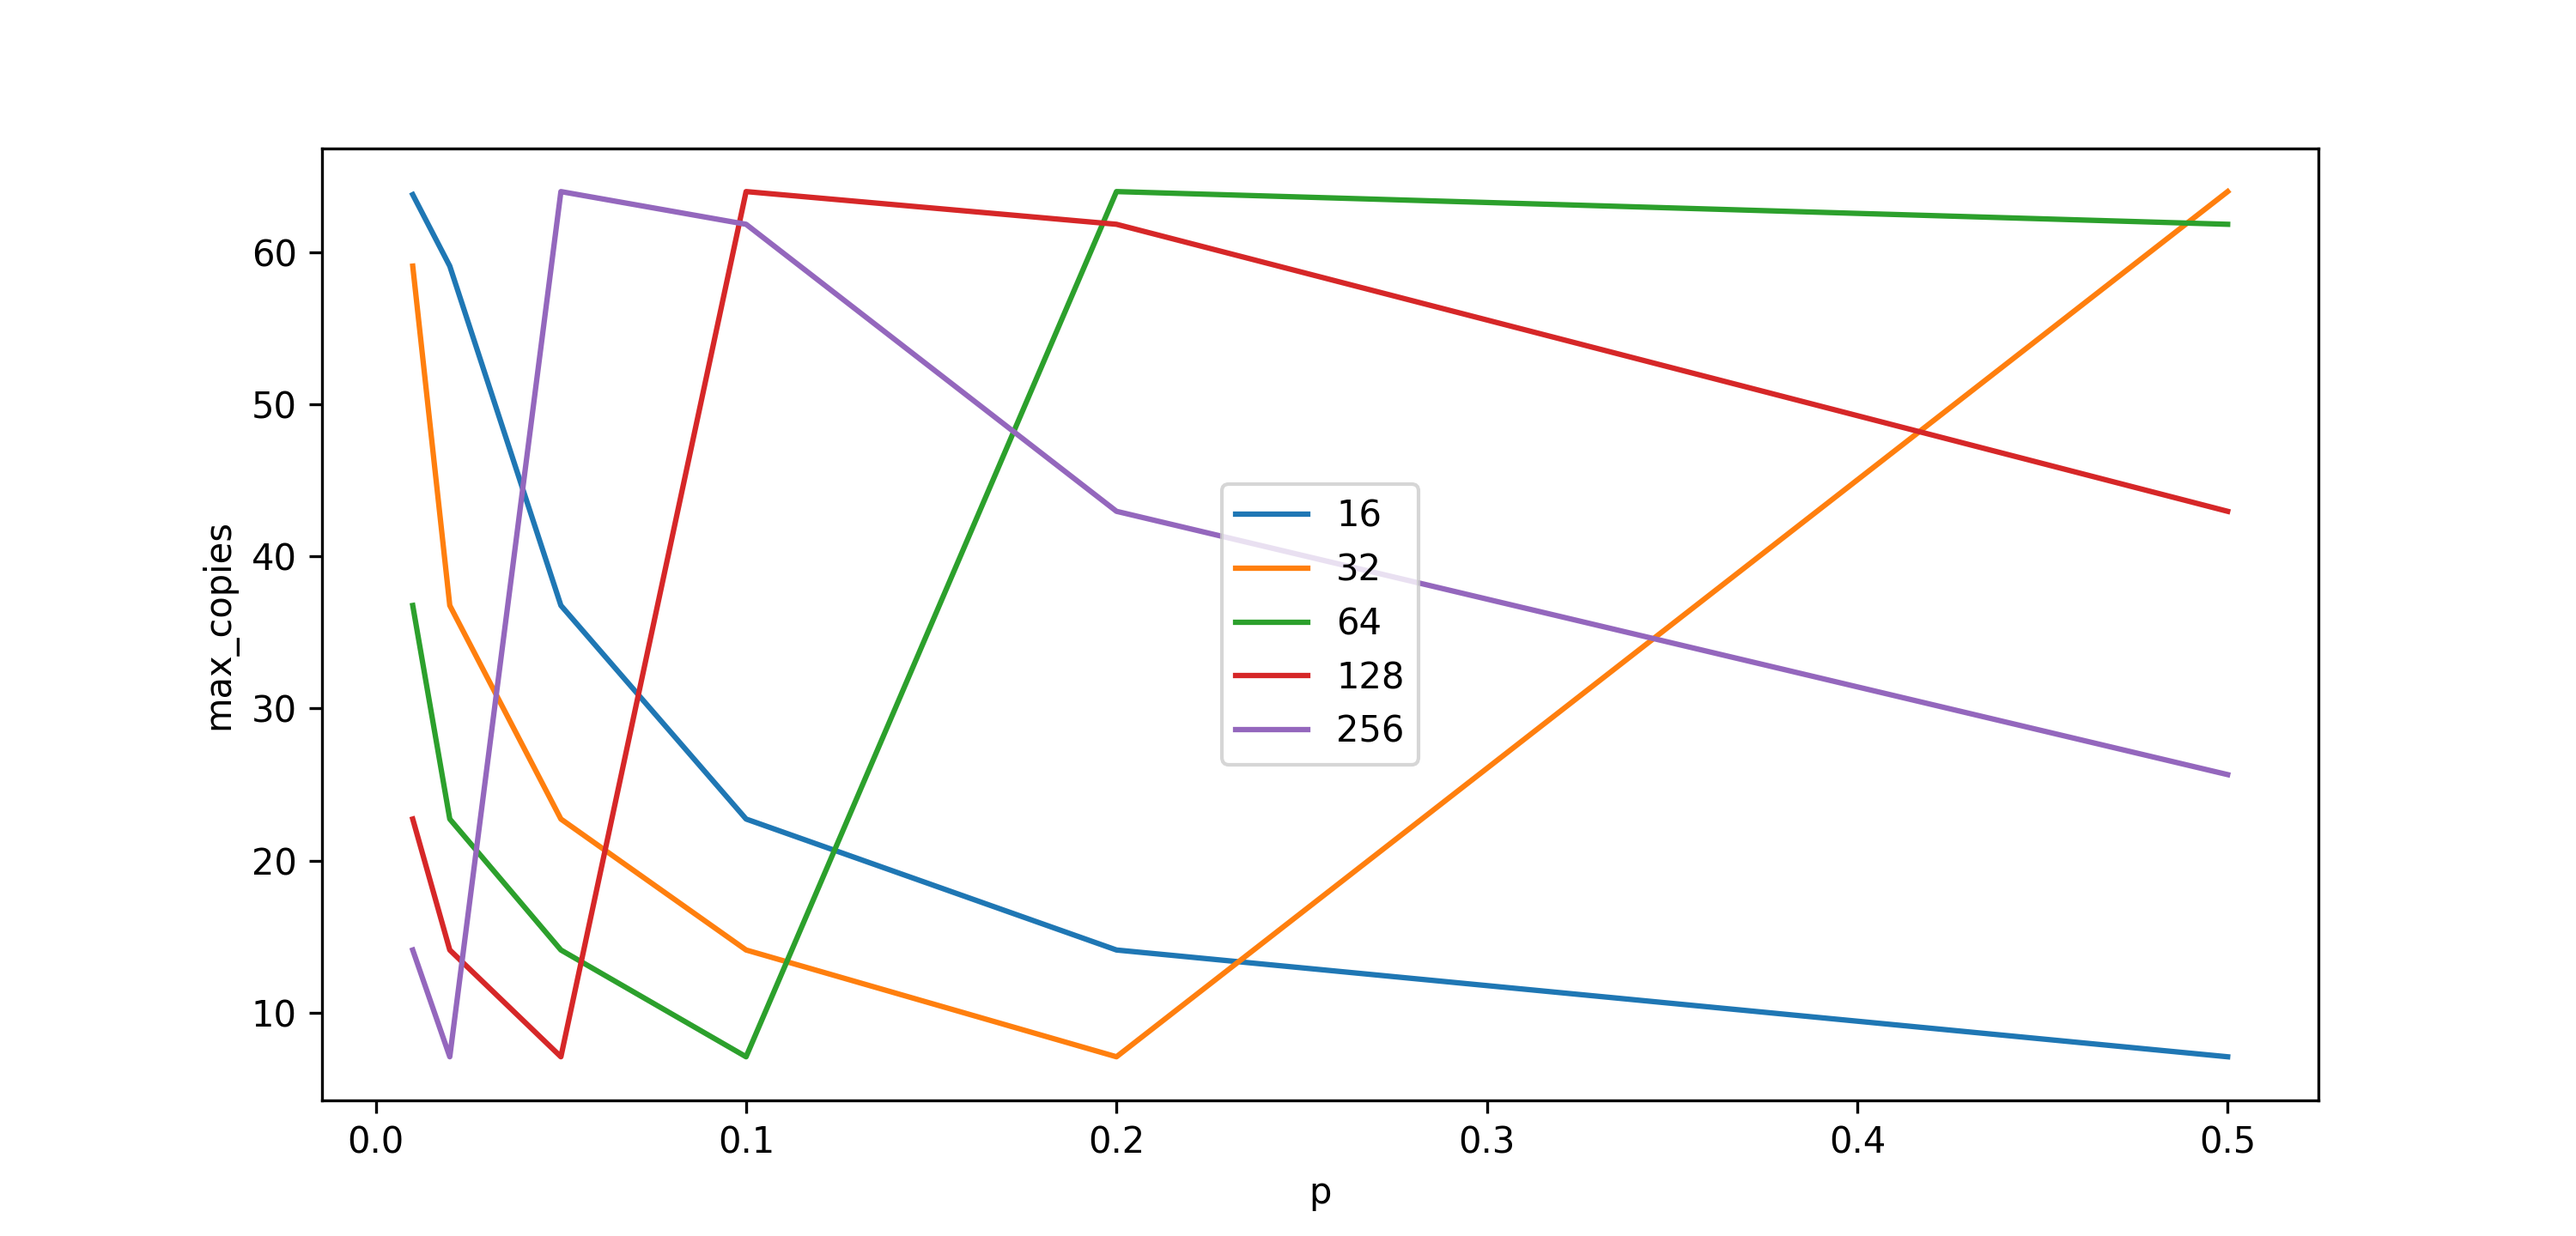
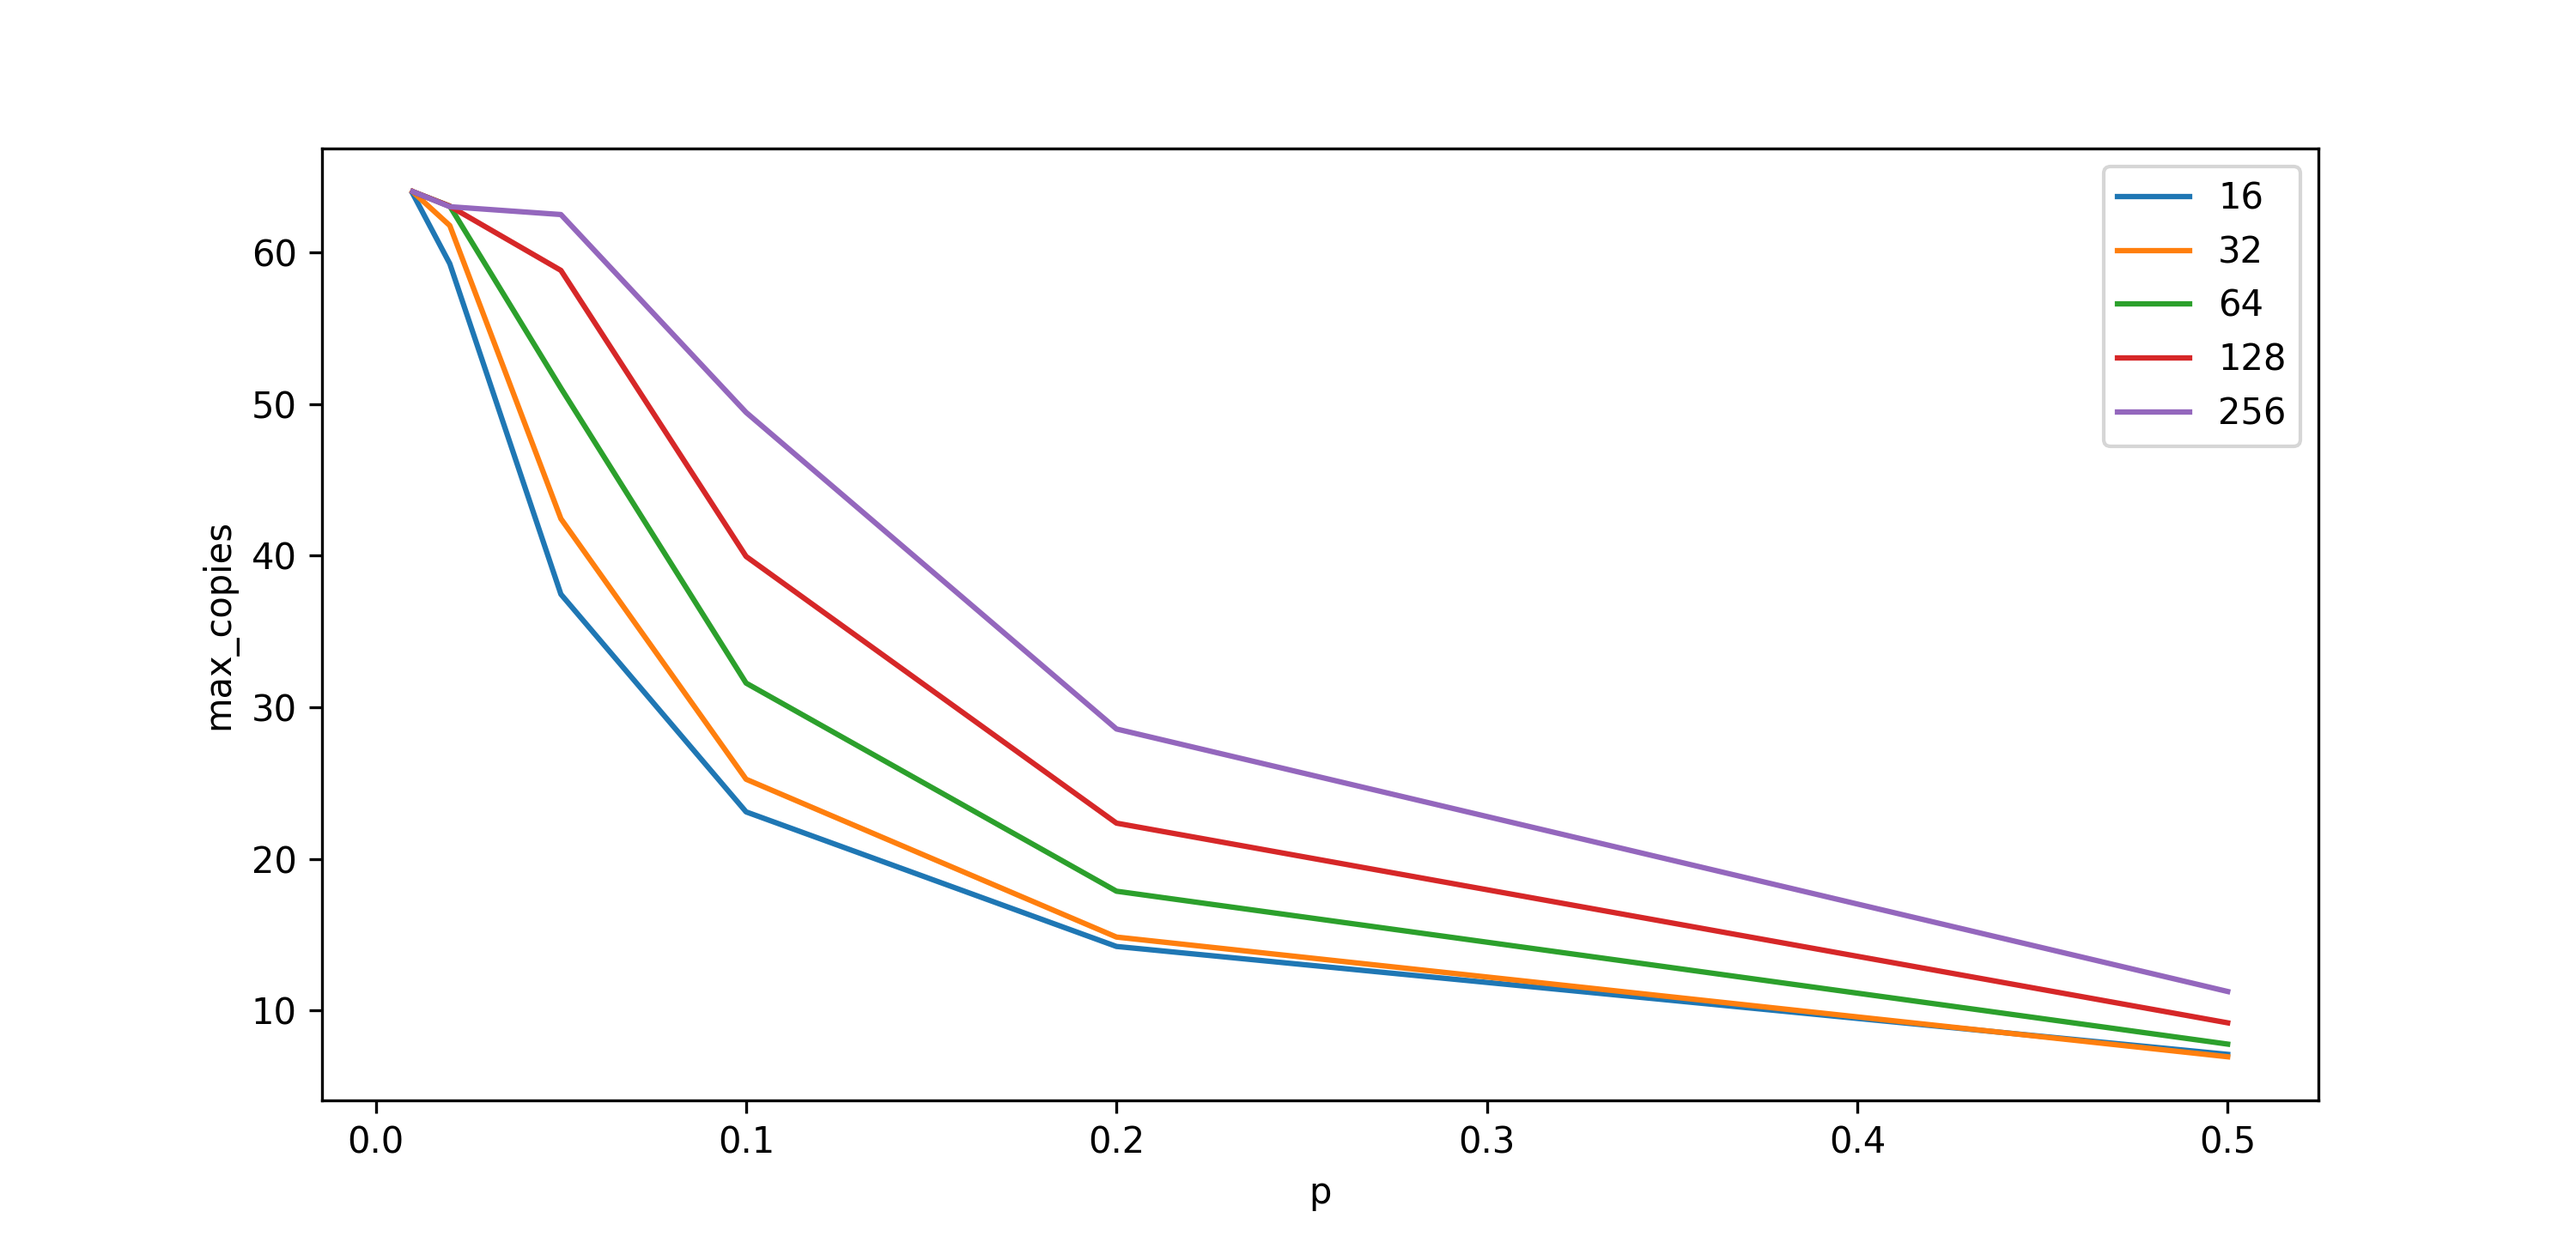
Finally finish List 5

diff --git a/labD/plot/plot.py b/labD/plot/plot.py
@@ -1,3 +1,4 @@
+#!/usr/bin/python3
 import matplotlib.pyplot as plt
 import csv
 import numpy as np
@@ -8,9 +9,11 @@ D = [16, 32, 64, 128, 256]
 P = [0.01, 0.02, 0.05, 0.1, 0.2, 0.5]
 cost = np.zeros((len(D),len(P)))
 copies = np.zeros((len(D),len(P)))
+costP = np.zeros((len(P),len(D)))
+copiesP = np.zeros((len(P),len(D)))
 
 if __name__ == "__main__":
-    with open("../results/2/total.csv") as csvfile:
+    with open("../results/4/total.csv") as csvfile:
             reader = csv.reader(csvfile, delimiter=';')
             for row_ in reader:
                 rows.append(row_)  # d, p, cost, copies
@@ -26,10 +29,19 @@ if __name__ == "__main__":
     for di in range(5):
         costs_l.append([])
         copies_l.append([])
+    # for di in range(5):
+    #     for pi in range(6):
+    #         costs_l[di].append(0.0)
+    #         copies_l[di].append(0.0)
+    # for di in range(5):
         for pi in range(6):
             # print(str(di+pi))
-            costs_l[di].append(float(rows[di+pi][2]))
-            copies_l[di].append(float(rows[di+pi][3]))
+
+            costs_l[di].append(float(rows[6*di+pi][2]))
+            copies_l[di].append(float(rows[6*di+pi][3]))
+            # costs_l[di][pi] = (float(rows[di+pi][2]))
+            # copies_l[di][pi] = (float(rows[di+pi][3]))
+
             # print("rows[di+pi][2]:", rows[di+pi][2])
             # print("rows[di+pi][3]:", rows[di+pi][3])
         # plt.plot(costs, label="D="+rows[di*6][0])
@@ -58,29 +70,49 @@ if __name__ == "__main__":
                 for j in range(len(P)):
                     # print("cost[i][j]: ", cost[i][j])
                     cost[i][j] = float(row[j])
+                    costP[j][i] = float(row[j])
 
     with open('copies.csv') as csvfile:
             reader = csv.reader(csvfile, delimiter=';')
             for i,row in enumerate(reader):
                 for j in range(len(P)):
                     copies[i][j] = float(row[j])
+                    copiesP[j][i] = float(row[j])
 
-    plt.figure().set_figwidth(10)
+    plt.figure(figsize=(16,8))
     for i,d in enumerate(D):
-        plt.plot(P, cost[i][:], label=d)
-    plt.xlabel('p')
-    plt.ylabel('avg_cost')
+        plt.plot(P, cost[i][:], label="D = "+str(d))
+    plt.xlabel('Prawdopodobieństwo żądania WRITE (p)')
+    plt.ylabel('Średni koszt żądania w algorytmie')
     plt.legend()
-    plt.savefig("cost_D.png", dpi=300)
+    plt.savefig("koszt_D.png", dpi=300)
     plt.close()
 
-    plt.figure().set_figwidth(10)
+    plt.figure(figsize=(16,8))
     for i,d in enumerate(D):
-        plt.plot(P, copies[i][:], label=d)
-    plt.xlabel('p')
-    plt.ylabel('max_copies')
+        plt.plot(P, copies[i][:], label="D = "+str(d))
+    plt.xlabel('Prawdopodobieństwo żądania WRITE (p)')
+    plt.ylabel('Średnie maksimum liczby kopii')
     plt.legend()
-    plt.savefig("copies_D.png", dpi=300)
+    plt.savefig("kopie_D.png", dpi=300)
+    plt.close()
+
+    plt.figure(figsize=(16,8))
+    for j,p in enumerate(P):
+        plt.plot(D, costP[j][:], label="P = "+str(p))
+    plt.xlabel('Koszt skopiowania zasobu (D)')
+    plt.ylabel('Średni koszt żądania w algorytmie')
+    plt.legend()
+    plt.savefig("koszt_P.png", dpi=300)
+    plt.close()
+
+    plt.figure(figsize=(16,8))
+    for j,p in enumerate(P):
+        plt.plot(D, copiesP[j][:], label="P = "+str(p))
+    plt.xlabel('Koszt skopiowania zasobu (D)')
+    plt.ylabel('Średnie maksimum liczby kopii')
+    plt.legend()
+    plt.savefig("kopie_P.png", dpi=300)
     plt.close()
     
     # ds = set()
